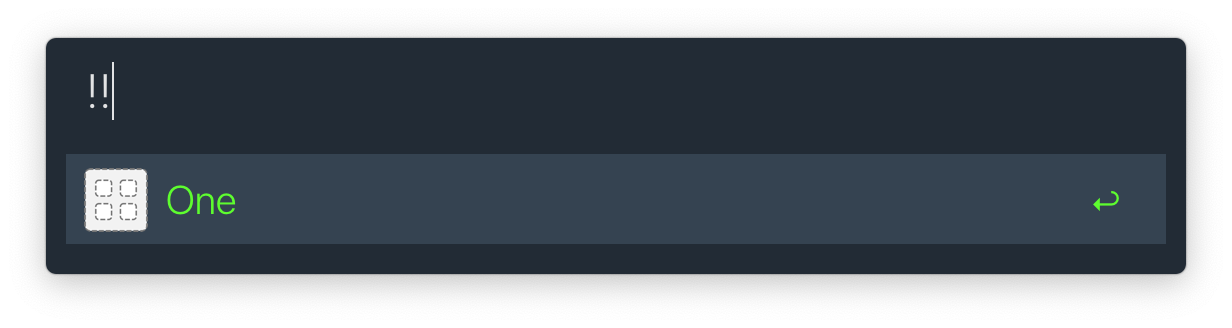
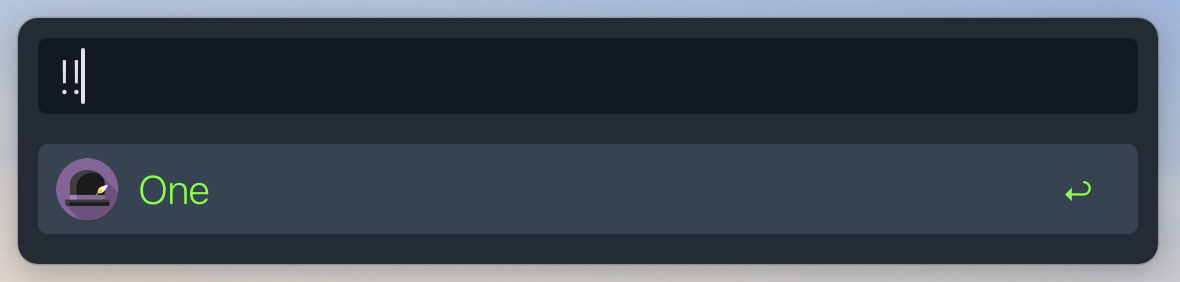
Update images in README to reflect theming changes

diff --git a/README.md b/README.md
@@ -150,9 +150,6 @@ to `/tmp/one.html`:
 <html>
   <head>
     <style>
-      html {
-          background-color: var(--result-backgroundSelected);
-      }
       h1 {
           color: var(--result-text-colorSelected);
       }
@@ -164,7 +161,5 @@ to `/tmp/one.html`:
 </html>
 ```
 
-Themed previews should show up:
-
-| ![](media/tutorial-images/alfred-4.png) | ![](media/tutorial-images/alfred-5.png) |
-|-|-|
+Themed preview should show up:
+![](media/tutorial-images/alfred-4.png)
